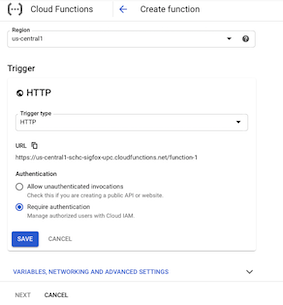
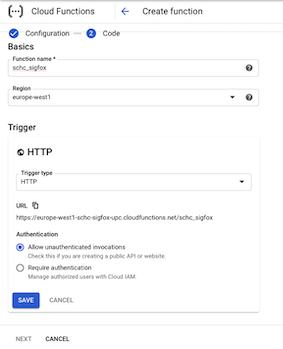
added files for tutorials

diff --git a/Testing/comTesting.py b/Testing/comTesting.py
@@ -1,0 +1,59 @@
+# This is the beacon module to be run for experiments...
+
+from network import Sigfox
+import socket
+import time
+import pycom
+
+def zfill(string, width):
+	if len(string) < width:
+		return ("0" * (width - len(string))) + string
+	else:
+		return string
+
+
+# init Sigfox for RCZ4 (Chile)
+# sigfox = Sigfox(mode=Sigfox.SIGFOX, rcz=Sigfox.RCZ4)
+# init Sigfox for RCZ1 (Europe)
+sigfox = Sigfox(mode=Sigfox.SIGFOX, rcz=Sigfox.RCZ1)
+
+s = socket.socket(socket.AF_SIGFOX, socket.SOCK_RAW)
+s.setblocking(True)
+# set False for only uplink, true for BIDIR
+s.setsockopt(socket.SOL_SIGFOX, socket.SO_RX, True)
+s.settimeout(45)
+
+c = 10
+submerged_time = 0
+n = 1
+
+# Wait for the beacon to be submerged
+time.sleep(submerged_time)
+
+# Send n messages to the Sigfox network to test connectivity
+for i in range(n):
+
+	string = "{}{}".format(zfill(str(c), 3), zfill(str(i), 3))
+	payload = bytes(string.encode())
+	print("Sending...")
+	# s.send(payload)
+	print("Sent.")
+	print(payload)
+	# try:
+	pycom.rgbled(0x6600CC)
+	print("Sending: {}".format(payload))
+	s.send(payload)
+	response = s.recv(12 * 8)
+	print("response -> {}".format(response))
+	decode_response = ''.join("{:08b}".format(int(byte)) for byte in response)
+	print('decode_response -> {}'.format(decode_response))
+# time.sleep(wait_time)
+# except OSError as e:
+# 	print('Error number {}, {}'.format(e.args[0],e))
+# 	if e.args[0] == 11:
+# 		# Retry Logic
+# 		print('Error {}, {}'.format(e.args[0],e))
+
+time.sleep(30)
+
+print("Done")

diff --git a/test_server.py b/test_server.py
@@ -27,6 +27,34 @@ def hello_world():
     return 'Hello, World!'
 
 
+@app.route('/test', methods=['POST'])
+def test():
+    """Responds to any HTTP request.
+    Args:
+        request (flask.Request): HTTP request object.
+    Returns:
+        The response text or any set of values that can be turned into a
+        Response object using
+        `make_response <http://flask.pocoo.org/docs/1.0/api/#flask.Flask.make_response>`.
+    """
+    import json
+    request_json = request.get_json()
+    # if request.args and 'device' in request.args:
+    #    return request.args.get('message')
+    if request_json and 'device' in request_json and 'data' in request_json:
+        device = request_json['device']
+        print('Data received from device id:{}, data:{}'.format(device, request_json['data']))
+        if 'ack' in request_json:
+            if request_json['ack'] == 'true':
+                response = {request_json['device']: {'downlinkData': '07f7ffffffffffff'}}
+                print("response -> {}".format(response))
+                return json.dumps(response), 200
+        return '', 204
+    else:
+        return f'Not a correct format message', 404
+
+
+
 @app.route('/post/message', methods=['GET', 'POST'])
 def post_message():
 

diff --git a/docs/Tutorial-1-end-to-end-communication.md b/docs/Tutorial-1-end-to-end-communication.md
@@ -1,0 +1,53 @@
+# End-to-end communication testing
+
+ The objective of this tutorial is to show the necessary steps to setup end-to-end communication between a LoPy4 device and Google Cloud Function (GCF), using the Sigfox Radio Network.
+  The GCF is configured as an end point in the Sigfox Cloud with bidirectional communication.
+  
+  All these steps are required to step up the SCHC fragmentation functionality over the Sigfox network.
+ 
+ ### Generic Framework for Static Context Header Compression and Fragmentation (SCHC) [[RFC 8724](https://www.rfc-editor.org/rfc/rfc8724.html)]
+ 
+ SCHC is a framework for Low Power Wide Area Networks (LPWAN) that enable IPv6 header compression and fragmentation functionality, when is not natively provided by the network.
+ 
+ SCHC is composed of two layers: Compression/Decompression (C/D) and Fragmentation/Reassemble (F/R). These layers sit between the IPv6 layer and the LPWAN technology. The C/D layer performes the IPv6 header compression and the F/R optionally fragments the compressor output when it does not fit in a single Layer 2 Frame. [[RFC 8724](https://www.rfc-editor.org/rfc/rfc8724.html)]
+ 
+ ![schc-protocol-stack-ipv6-schc-lpwan](images/schc-protocol-stack.png)[[RFC 8724](https://www.rfc-editor.org/rfc/rfc8724.html)]
+
+The output of the SCHC compressor is called the SCHC Packet and fragmentation is performed over the SCHC Packet. 
+However, the SCHC Packet is not only limited to a compressed IPv6 packet, as it can also be any application data that is required to be transmitted over an scared-resource link. 
+For example, if the required data to be transmitted (e.g. sensor measurements) is 150 bytes long and the available payload for transmission is only 50 bytes.
+
+Note that the Sigfox payload is limited in uplink to 12 bytes and in downlink to 8 bytes. This means that if more than 12 bytes are required to be sent in uplink, SCHC fragmentation can be used. 
+In the same way, if more than 8 bytes are required to be sent to the device in downlink, SCHC fragmentation can be used.
+ 
+ 
+ ### Architecture
+ 
+ According to the Generic Framework for Static Context Header Compression and Fragmentation (SCHC [RFC 8724](https://www.rfc-editor.org/rfc/rfc8724.html)), the general LPWAN architecture consists of the following elements:
+ 
+ * Devices (Dev) are the end-devices or hosts (e.g., sensors, actuators, etc.). There can be a very high density of devices per Radio Gateway.
+ * The Radio Gateway (RGW) is the endpoint of the constrained link.
+ * The Network Gateway (NGW) is the interconnection node between the Radio Gateway and the Internet.
+ * The Application Server (App) is the endpoint of the application-level protocol on the Internet side.
+ 
+To leverage each LPWAN technology, each technology defines a Profile that adapt SCHC configuration and Fragmentation/Reassemble (F/R) modes according to its characteristics. 
+More specifically, the [SCHC-over-Sigfox](https://www.ietf.org/id/draft-ietf-lpwan-schc-over-sigfox-03.txt) draft, adapts the SCHC framework to optimally work over the Sigfox radio links. 
+The architecture below shows the replacement of the elements shown before with the Sigfox Network elements.
+ 
+ ![lpwan-architecture](images/lpwan-network-architecture-1.png)
+ 
+The objective of this tutorial is the following test scenario, were the LoPy4 (Device) is connected to the Sigfox Base Station (Radio Gateway). 
+ The Sigfox Base Stations communicates with the Sigfox Cloud (Network Gateway) which sends the messages to the Google Cloud Function (SCHC F/R). 
+ This architecture is shown below.
+ 
+ ![example request](images/schc_sigfox_diagrams_1.png)
+
+
+## Setup steps for end to end communication testing
+
+The following steps are required to test the communication end-to-end (LoPy4<->Sigfox<->GCF). A GCF will be setup as an example for bireccional communication, the LoPy will be connected to obtained the Sigfox network information that will later be required to create a Sigfox Backend account. Then the end-point is configured and messages are send from the LoPy to the GCF using the Sigfox network.
+
+1. Create a Google Cloud Function. [Tutorial 2](/docs/Tutorial-2-cloud-function-setup.md)
+2. Configure the IDE (vscode or atom) with the extension to support Pycom devices (pymark). [Tutorial 3](/docs/Tutorial-3-lopy-setup-vscode.md)
+3. Configure the Google Cloud Function as an end-point in Sigfox Cloud. [Tutorial 4](/docs/Tutorial-4-Sigfox-callback_setup.md)
+4. Run end-to-end test (LoPy4<->Sigfox<->GCF) [Tutorial](/docs/Tutorial-4-Sigfox-callback_setup.md)

diff --git a/docs/Tutorial-2-cloud-function-setup.md b/docs/Tutorial-2-cloud-function-setup.md
@@ -15,13 +15,13 @@ Create a google cloud account, can be with a gmail address. More information fro
 
 
 
-### Create CLoud Storage Bucket (required for SCHC implementation in GCF)
+### Create Cloud Storage Bucket (required for SCHC implementation in GCF)
 
 1. Go to Menu, Storage.
 
 2. Click on the Create Bucket button.
 
-3. Give Bucket Name (save name for latter) and complete the creation form.
+3. Give Bucket Name ex. ```sigfoxschc``` (save name for latter) and complete the creation form.
 
 ![create-bucket](images/create-bucket-google-cloud-1.png)
 
@@ -29,18 +29,18 @@ Create a google cloud account, can be with a gmail address. More information fro
 
 1. Go to Menu, Functions.
 2. Click on the Create Function button.
-3. Give the Cloud Function a name. Ex. ``` schc-sigfox```
+3. Give the Cloud Function a name. Ex. ``` schc_sigfox```
 ![create-function](images/create-cloud-function-1.png)
 4. Complete creation form, with region.
 5. Set HTTP trigger.
-6. Click the required authentication.
-7. Copy cloud function URL.
-8. Click save and Next.
+6. Click the Allow unauthenticated invocations.
+7. Copy cloud function URL and save it for latter.
+8. Click Save and Next.
 9. Choose Python 3.7 as Runtime.
-10. Copy the following code to the function.
+10. Copy the following code in main.py to the function.
 
 ```python
-def schc-sigfox(request):
+def schc_sigfox(request):
     """Responds to any HTTP request.
     Args:
         request (flask.Request): HTTP request object.
@@ -51,17 +51,26 @@ def schc-sigfox(request):
     """
     import json
     request_json = request.get_json()
-    #if request.args and 'device' in request.args:
+    # if request.args and 'device' in request.args:
     #    return request.args.get('message')
     if request_json and 'device' in request_json and 'data' in request_json:
-        respose = {request_json['device']: "downlinkData": request_json['data'] } 
-        return json.dumps(response)
+        device = request_json['device']
+        print('Data received from device id:{}, data:{}'.format(device, request_json['data']))
+        if 'ack' in request_json:
+            if request_json['ack'] == 'true':
+                response = {request_json['device']: {'downlinkData': '07f7ffffffffffff'}}
+                print("response -> {}".format(response))
+                return json.dumps(response), 200
+        return '', 204
     else:
-        return f'Not a correct format message'
+        return f'Not a correct format message', 404
 
 ```
+11. Change the Entry Point to ```schc_sigfox```
 11. Click Deploy and wait for the function to be deploy.
 
 ![create-function](images/create-cloud-function-2.png)
 
+The code deploy in the Cloud Function will process the message received from Sigfox Cloud (with a certain format). If the POST json message format is incorrect, a 404 error message will be returned. 
+If the json message format is correct, the data received will be printed. Likewise, if the ack flag is set to true, which means that the device is waiting for a response, a downlink message is sent back to the Sigfox Cloud in the response, that will redirect the message to device that init the communication.
 

diff --git a/docs/Tutorial-5-test-end-to-end.md b/docs/Tutorial-5-test-end-to-end.md
@@ -1,0 +1,60 @@
+# End-to-end Test
+
+One the GFC is created, the Sigfox Backend account is configured and the IDE is ready, the LoPy can begin sending messages thru the Sigfox Cloud to the GCF.
+
+## Unidirectional tests (uplink only)
+
+The first test is a unidirectional test, where the LoPy4 sends a message to the GCF without waiting for an answer.
+
+1. Open the file located in /Testing called beacon.py.
+
+![vscode-setup-lopy](images/LoPy-testing-beacon-1.png)
+
+2. The beacon.py script sends n = 10 messages to the Sigfox network. This test is build to test the connectivity between the LoPy4, the Sigfox Cloud and the end point. (only one message is required to test the Sigfox connectivity and the correct end point configuration).
+
+```
+>>> Running beacon.py
+
+>>>
+>>>
+Sending...
+Sent.
+b'010000'
+Sending...
+Sent.
+b'010001'
+Done
+```
+
+3. The number of sent messages depends on the "n" configuration. In the previous example n = 2.
+
+
+## Review Sigfox callback configuration.
+
+Go to the Sigfox Backend page and navigate to Device -> Your-device-ID -> Messages. Check the column "Callbacks". The test is OK if all messages arrived and have a green arrow and a red arrow downwards.
+
+![callback-example](images/sigfox-callback-configuration-example-unidir.png)
+
+The green arrow upward indicates the status of the message send from device to the Sigfox Cloud, and the downward arrow indicates, that the device has open the reception windows, if red no message was send to the device.
+
+In Google Cloud Console, go to Logging, Logs Viewer. Set the Cloud Function and a log should be found with the informatino of the data sent.
+
+![logview-example](images/sigfox-callback-configuration-example-unidir-GCF-response.png)
+
+## Bidirectional tests (Device to Cloud)
+
+In the bidirectional test messages are sent from the LoPy4 device to the Cloud and a response is sent back to the device. 
+To test the response from the GCF, open from /Testing comTesting.py.
+
+In the comTesting.py the n can be configured to send more than one message. 
+
+![comTesting-example](images/sigfox-comTesting-example-1.png)
+
+The response content of the end point previously configured in the callback in the Sigfox Cloud is send back to device if the device requested a response (note that the LoPy4 should enable the reception window when a message is expected).
+
+![callback-example-bidir](images/sigfox-callback-configuration-example-bidir.png)
+
+
+Check the Logs of the GFC.
+
+![logview-example-bidir](images/sigfox-callback-configuration-example-bidir-GCF-response.png)

diff --git a/docs/Tutorial-4-Sigfox-callback_setup.md b/docs/Tutorial-4-Sigfox-callback_setup.md
@@ -50,39 +50,3 @@ The callback can be enable and disable with the Enable checkbox. Check that the 
 
 
 
-
-
-![vscode-setup-lopy](images/LoPy-testing-beacon-1.png)
-
-9. Open the file located in /Testing called beacon.py.
-
-10. The beacon.py script sends n = 10 messages to the Sigfox network. This test is build to test the connectivity between the LoPy4, the Sigfox Cloud and the end point. (only one message is required to test the Sigfox connectivity and the correct end point configuration).
-
-``` 
->>> Running beacon.py
-
->>> 
->>> 
-Sending...
-Sent.
-b'010000'
-Sending...
-Sent.
-b'010001'
-Done
-```
-
-11. The number of sent messages depends on the "n" configuration. In the previous example n = 2.
-
-
-## Review Sigfox callback configuration.
-
-Go to the Sigfox Backend page and navigate to Device -> Your-device-ID -> Messages. Check the column "Callbacks". The test is OK if all messages arrived and have a green arrow and a red arrow downwards.
-
-![callback-example](images/sigfox-callback-configuration-example.png)
-
-The green arrow upward indicates the status of the message send from device to the Sigfox Cloud, and the downward arrow indicates, that the device has open the reception windows, if red no message was send to the device.
-
-The response content of the end point previously configured in the callback in the Sigfox Cloud is send back to device if the device requested a response (note that the LoPy4 should enable the reception window when a message is expected).
-
-
